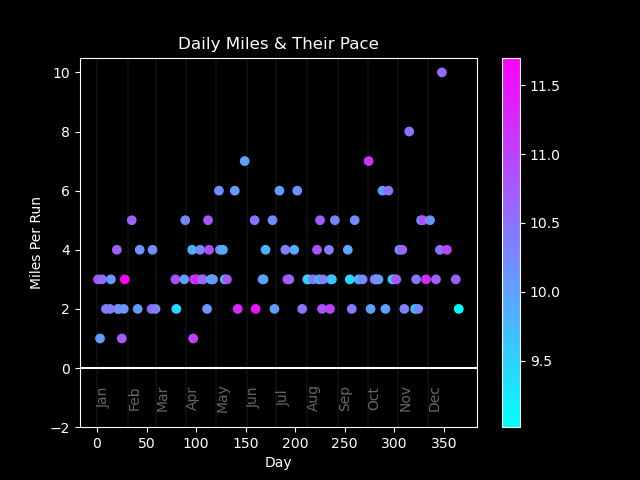
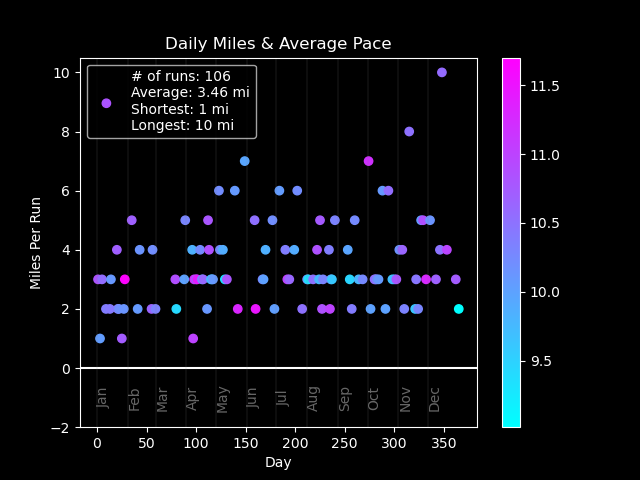
Update for 12/31/2023

Changed region(s): [[0.125, 0.0625, 0.625, 0.3125]]

diff --git a/progress.py b/progress.py
@@ -4,7 +4,7 @@ import matplotlib.cm as colormaps
 import argparse
 import numpy as np
 import pandas as pd
-from datetime import date
+from datetime import date, timedelta
 import calendar
 
 
@@ -12,6 +12,9 @@ import calendar
 plt.style.use('dark_background')
 
 year = 2023
+
+def time_string(time_minutes):
+    return f"{int(time_minutes // 1)}:{int((time_minutes % 1)*60):02d}"
 
 def plot_months(current_days, y=0):
     total_days = 0
@@ -250,9 +253,10 @@ if plot_distribution:
 
     all_mile_times = np.array(all_mile_times,dtype=float)
     all_mile_times /= 60.0
-
-    plt.hist(all_mile_times,bins=50)
-    plt.title("Distribution of Paces")
+    pace_label = "Average: " + time_string(np.mean(all_mile_times)) + '\nFastest: ' + time_string(np.min(all_mile_times)) + '\nSlowest: ' + time_string(np.max(all_mile_times))
+    plt.hist(all_mile_times,bins=50, label=pace_label)
+    plt.legend(loc='upper left')
+    plt.title("Pace Distribution")
     plt.xlabel("Pace (minutes)")
     plt.ylabel("Frequency")
     plt.savefig(images_path+'pacing-distribution')
@@ -263,14 +267,17 @@ plot_daily_miles = True
 if plot_daily_miles:
     color_miles = df['miles'][df['miles']>0]
     color_pace = df['average_mins'][df['miles']>0]
-    plt.scatter(df['day'][df['miles']>0], df['miles'][df['miles']>0], c=color_pace, cmap='cool')
+    daily_miles = df['miles'][df['miles']>0]
+    daily_miles_label = "# of runs: " + str(len(daily_miles)) + "\nAverage: " + str(round(np.mean(daily_miles),2)) + ' mi\nShortest: ' + str(np.min(daily_miles)) + ' mi\nLongest: ' + str(np.max(daily_miles)) + ' mi'
+    plt.scatter(df['day'][df['miles']>0], daily_miles, c=color_pace, cmap='cool', label=daily_miles_label)
     plt.axhline(y=0, color='white')
     plt.colorbar()
     plot_months(ndays, y=-1)
     plt.ylim(bottom=-2)
+    plt.legend(loc='upper left')
     plt.xlabel("Day")
     plt.ylabel("Miles Per Run")
-    plt.title("Daily Miles & Their Pace")
+    plt.title("Daily Miles & Average Pace")
     plt.savefig(images_path+'daily-miles')
     plt.close()
 
